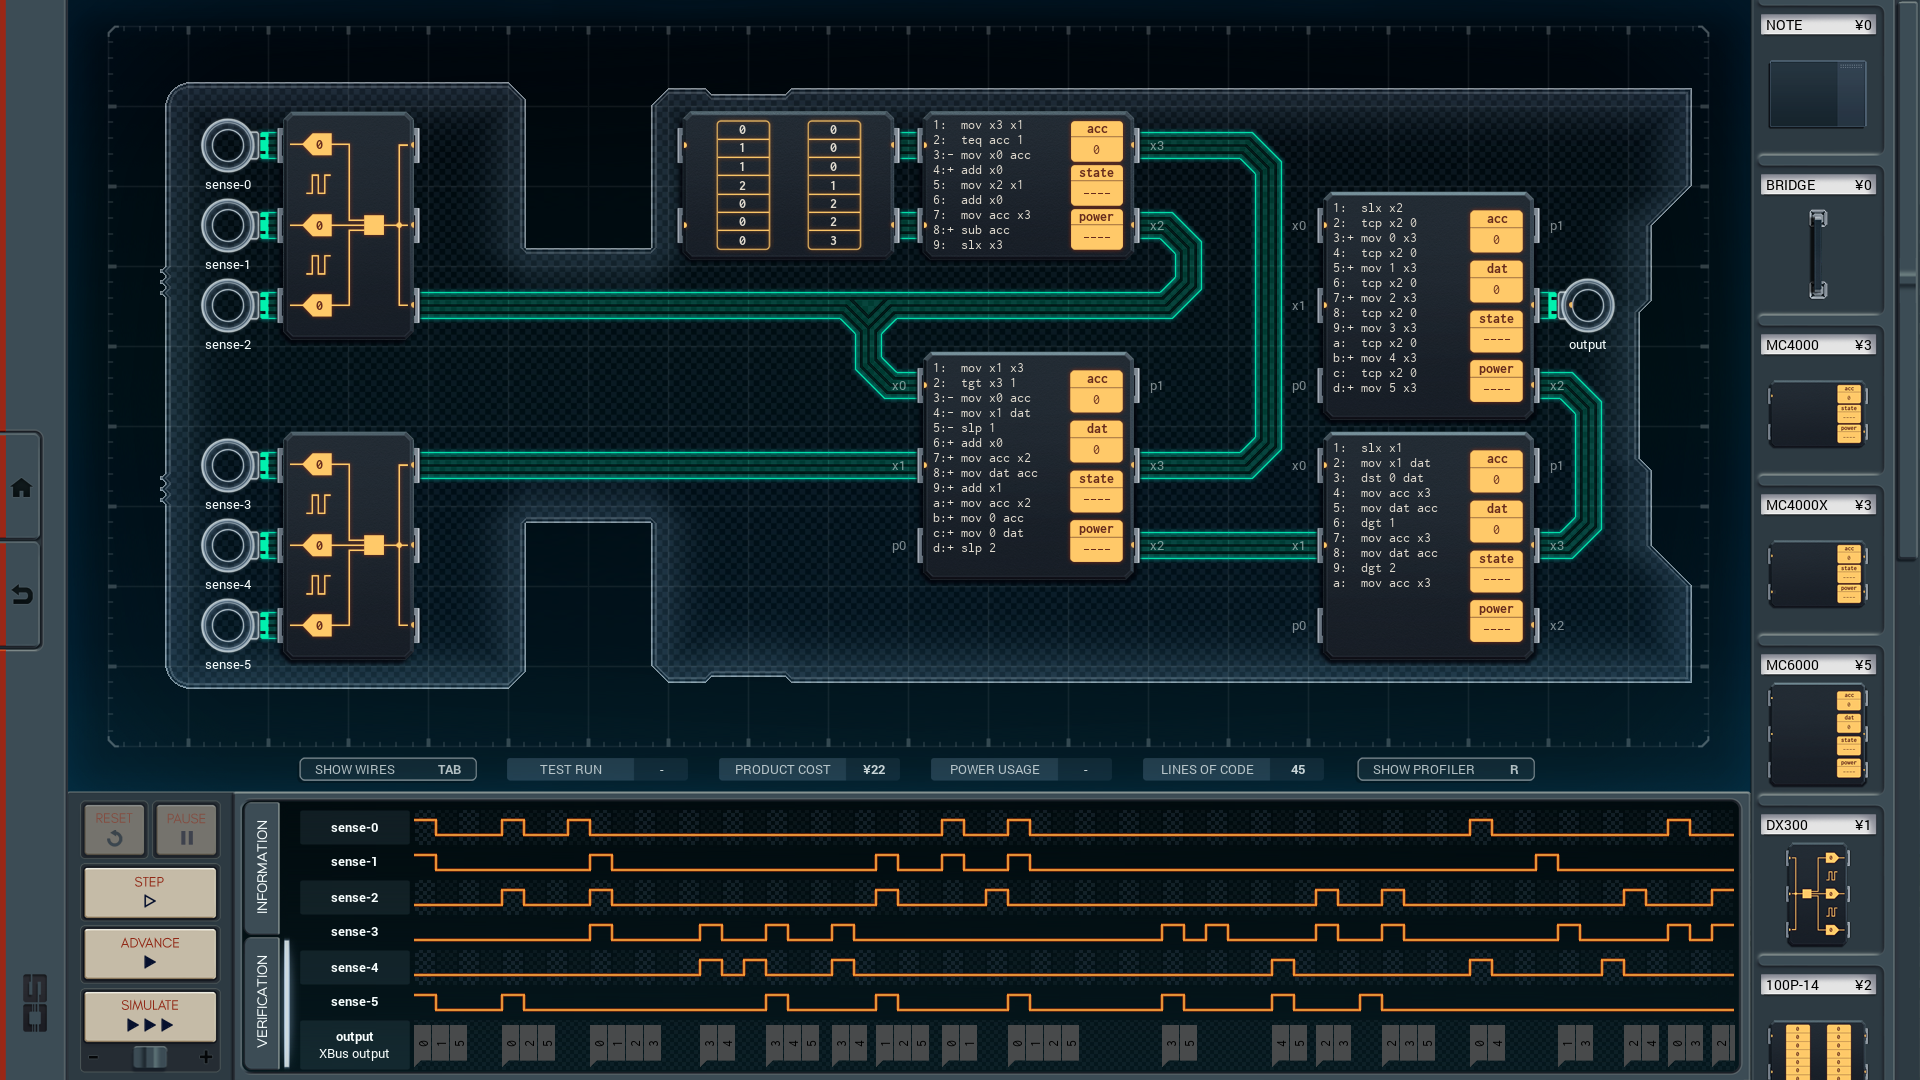
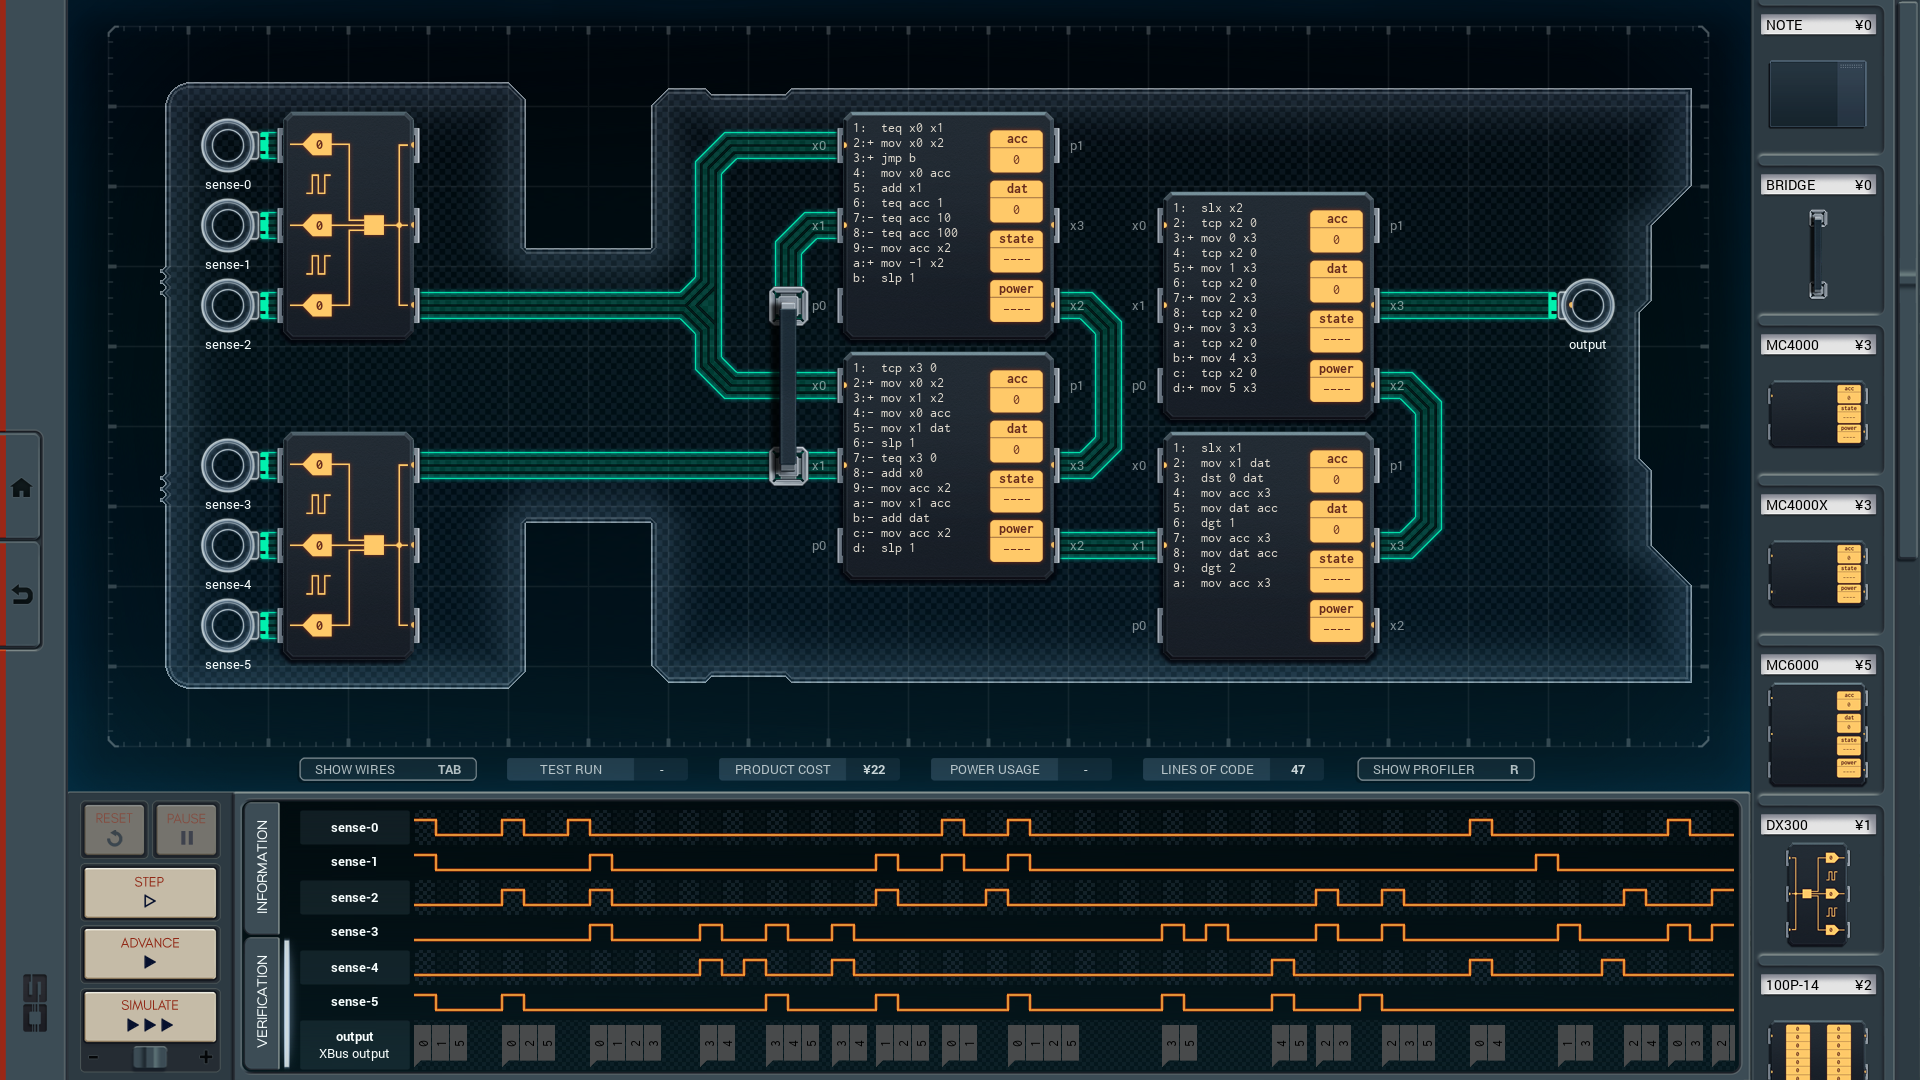
2023/02/10 Optimized the min power solution for Brain Computer Interface [BEF] 22C / 1209P / 45L [AFT] 22C / 1147P / 47L

Changed region(s): [[0.3438, 0.0917, 0.8438, 0.6417]]

diff --git a/039-brain-computer-interface/README.md b/039-brain-computer-interface/README.md
@@ -3,7 +3,7 @@
 
 ![screenshot0](https://github.com/shiawasenahikari/Shenzhen-IO-Solutions/blob/master/039-brain-computer-interface/screenshot0.png)
 
-22/1209/45 (MIN POWER) SOLUTION
+22/1147/47 (MIN POWER) SOLUTION
 -------------------------------
 
 ![screenshot1](https://github.com/shiawasenahikari/Shenzhen-IO-Solutions/blob/master/039-brain-computer-interface/screenshot1.png)
